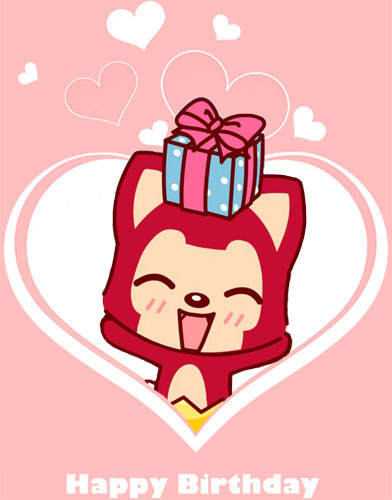
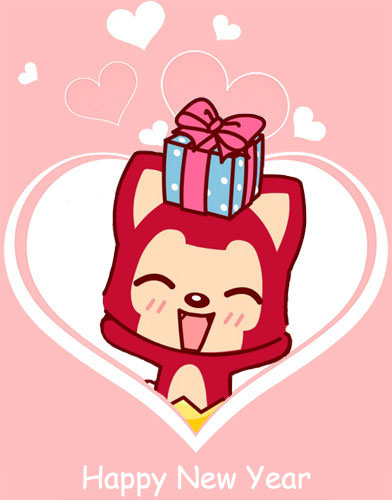
init

Changed region(s): [[0.1531, 0.93, 0.8265, 1.0]]

diff --git a/index.html b/index.html
@@ -13,7 +13,7 @@
 <![endif]-->
 <!--[if !(IE)]><!-->
 <html><!--<![endif]--><head>
-<title>我们的回忆</title>
+<title>我们</title>
 <meta http-equiv="content-type" content="text/html; charset=UTF-8">
 	<meta http-equiv="Pragma" content="no-cache">
 	<meta name="viewport" content="width=device-width, minimum-scale=1.0, maximum-scale=1.0, user-scalable=no">
@@ -24,8 +24,8 @@
 	<div style="transform: translateX(0%) translateY(0%);" class="flowtime no-transition">
 		<div id="" data-prog="__1" class="ft-section section-1" data-id="__section-1">
 			<div data-prog="__1" id="" class="ft-page page-1 hilite actual" data-id="__page-1">
-				<p class="text1"><span id="text-75" contenteditable="true">他</span> ❤ <span id="text-76" contenteditable="true">她</span> <span id="text-77" contenteditable="true">一生一世</span></p>
-				<p class="text2">按键盘 "↓" <span id="text-78" contenteditable="true">开始倾听我的表白</span></p>
+				<p class="text1"><span id="text-75" contenteditable="true">他</span> ❤ <span id="text-76" contenteditable="true">她</span><span style="margin-left: 10px">的故事</span></p>
+				<p id="divTyping" class="text2"></p>
 			</div>
 			<div data-prog="__2" id="" class="ft-page page-2 future-page" data-id="__page-2">
 				<p class="top-text" id="text-1" contenteditable="true">过去的他一直是一个人生活，享受着孤独，也憧憬着爱情。</p>
@@ -40,6 +40,21 @@
 				<img src="a/iali6.jpg" alt="一个人的山岗">
 			</div>
 		</div>
+		<script>
+		   var str = '按键盘 "↓"，静静听我说___';
+		   var i = 0;
+		   function typing(){
+		    var divTyping = document.getElementById('divTyping');
+		    if (i <= str.length) {
+		     divTyping.innerHTML = str.slice(0, i++) + '_';
+		     setTimeout('typing()', 400);//递归调用
+		    }
+		    else{
+		     divTyping.innerHTML = str;//结束打字,移除 _ 光标
+		    }
+		   }
+		   typing();
+		  </script>
 		<div id="" data-prog="__2" class="ft-section section-2" data-id="__section-2">
 			<div data-prog="__1" id="" class="ft-page page-5 full-img future-section" data-id="__page-1">
 				<h2 class="center-text" id="text-4" contenteditable="true">一个人的地铁</h2>
@@ -201,12 +216,12 @@
 				<h3 id="text-46" contenteditable="true"> 他又怎会飞的更高更远</h3>
 			</div>
 			<div data-prog="__4" id="" class="ft-page page-42 future-section future-page" data-id="__page-4">
-				<h3><span id="text-47" contenteditable="true">他不想这样。他要为她改变自己</span><br><span id="text-48" contenteditable="true">她说她喜欢狮子座的人，于是他许下愿望</span></h3>
+				<h3><span id="text-47" contenteditable="true">他不想这样。他要为她改变自己</span><br><span id="text-48" contenteditable="true">于是他许下愿望</span></h3>
 				<img src="a/iali69.jpg">
 			</div>
 			<div data-prog="__5" id="" class="ft-page page-43 future-section future-page" data-id="__page-5">
 				<img src="a/iali42.jpg">
-				<h3 id="text-49" contenteditable="true">我愿为你变成狮子座</h3>
+				<h3 id="text-49" contenteditable="true">我愿为你变得乐观温和</h3>
 			</div>
 			<div data-prog="__6" id="" class="ft-page page-44 left-img future-section future-page" data-id="__page-6">
 				<h3><span id="text-50" contenteditable="true">爱情就像花草一样</span><br><span id="text-51" contenteditable="true">需要用包容来浇灌</span></h3>
@@ -248,7 +263,7 @@
 				</p>
 			</div>
 			<div data-prog="__5" id="" class="ft-page page-50 future-section future-page" data-id="__page-5">
-				<p class="text" id="text-66" contenteditable="true">后来的一天，她说她不敢坐山车了，于是他就带她到别的地方玩。这只是他们幸福生活中的一件小事，小到无法引起别人的注意。可这是属于他和她的幸福生活。</p>
+				<p class="text" id="text-66" contenteditable="true">后来的一天，她说她不喜欢吃蛋黄，于是他就把蛋黄都吃掉，只留下蛋白。这只是他们幸福生活中的一件小事，小到无法引起别人的注意。可这是属于他和她的幸福生活。</p>
 				<img src="a/iali50_1.jpg" class="img1">
 				<img src="a/iali50_2.jpg" class="img2">
 			</div>
@@ -267,9 +282,9 @@
 				<img src="a/iali20.jpg">
 			</div>
 			<div data-prog="__2" id="" class="ft-page page-53 future-section future-page" data-id="__page-2">
-				<img src="a/iali68.jpg" alt="happy birthday">
-				<h6 id="text-72" contenteditable="true">莲莲</h6>
-				<h3 id="text-72" contenteditable="true">520快乐</h3>
+				<img src="a/iali68.jpg" alt="Happy New Year">
+				<h6 id="text-72" contenteditable="true" style="margin-top: -20px">小丫</h6>
+				<h3 id="text-72" contenteditable="true" style="margin-top: -30px">新年快乐!</h3>
 			</div>
 			<div data-prog="__3" id="" class="ft-page page-54 center-img future-section future-page" data-id="__page-3">
 				<div class="center-img">I love you</div>
@@ -281,25 +296,14 @@
 					<span id="text-74" contenteditable="true">无论精彩、平淡都会是他们喜欢的。</span><br>
 					<br>
 					<br>
-					
+					<span id="text-74" contenteditable="true">小丫，我很想你</span><br>
 				</p>				
 			</div>
 		</div>
 	</div>
 	<noscript><div class="nojavascript">您的浏览器禁用了javascript，无法正常浏览本页面</div></noscript>
 	
-	<div class="write-ok">
-		<div class="write-box">
-			<h2>还差一步即可生成表白页面</h2>
-			<p id="write-mp3">背景音乐：<span style="width:500px;" id="text-music" contenteditable="true">http://aijavatool.duapp.com/xiami/1769636197/心肝宝贝</span><i></i>.mp3</p>
-			<p id="write-url"></p>
-			<small><a href="###" id="back" style="display:none;">重新修改</a></small> <button id="write-post">❤ 生成表白页面</button>
-			<div class="write-share">
-				<p>~\(≧▽≦)/~ 点击分享 发送给你的亲亲吧</p>
-				<div class="bdsharebuttonbox"><a href="#" class="bds_qzone" data-cmd="qzone" title="分享到QQ空间"></a><a href="#" class="bds_tsina" data-cmd="tsina" title="分享到新浪微博"></a><a href="#" class="bds_tqq" data-cmd="tqq" title="分享到腾讯微博"></a><a href="#" class="bds_renren" data-cmd="renren" title="分享到人人网"></a><a href="#" class="bds_weixin" data-cmd="weixin" title="分享到微信"></a><a href="#" class="bds_sqq" data-cmd="sqq" title="分享到QQ好友"></a><a href="#" class="bds_tieba" data-cmd="tieba" title="分享到百度贴吧"></a><a href="#" class="bds_copy" data-cmd="copy" title="分享到复制网址"></a><a href="#" class="bds_more" data-cmd="more"></a></div>
-			</div>
-		</div>
-	</div>
+	
 
 	<audio id="bgmMusic" src="a/a.mp3" autoplay="autoplay" loop="loop" preload="auto" type="audio/mp3"></audio>
     
